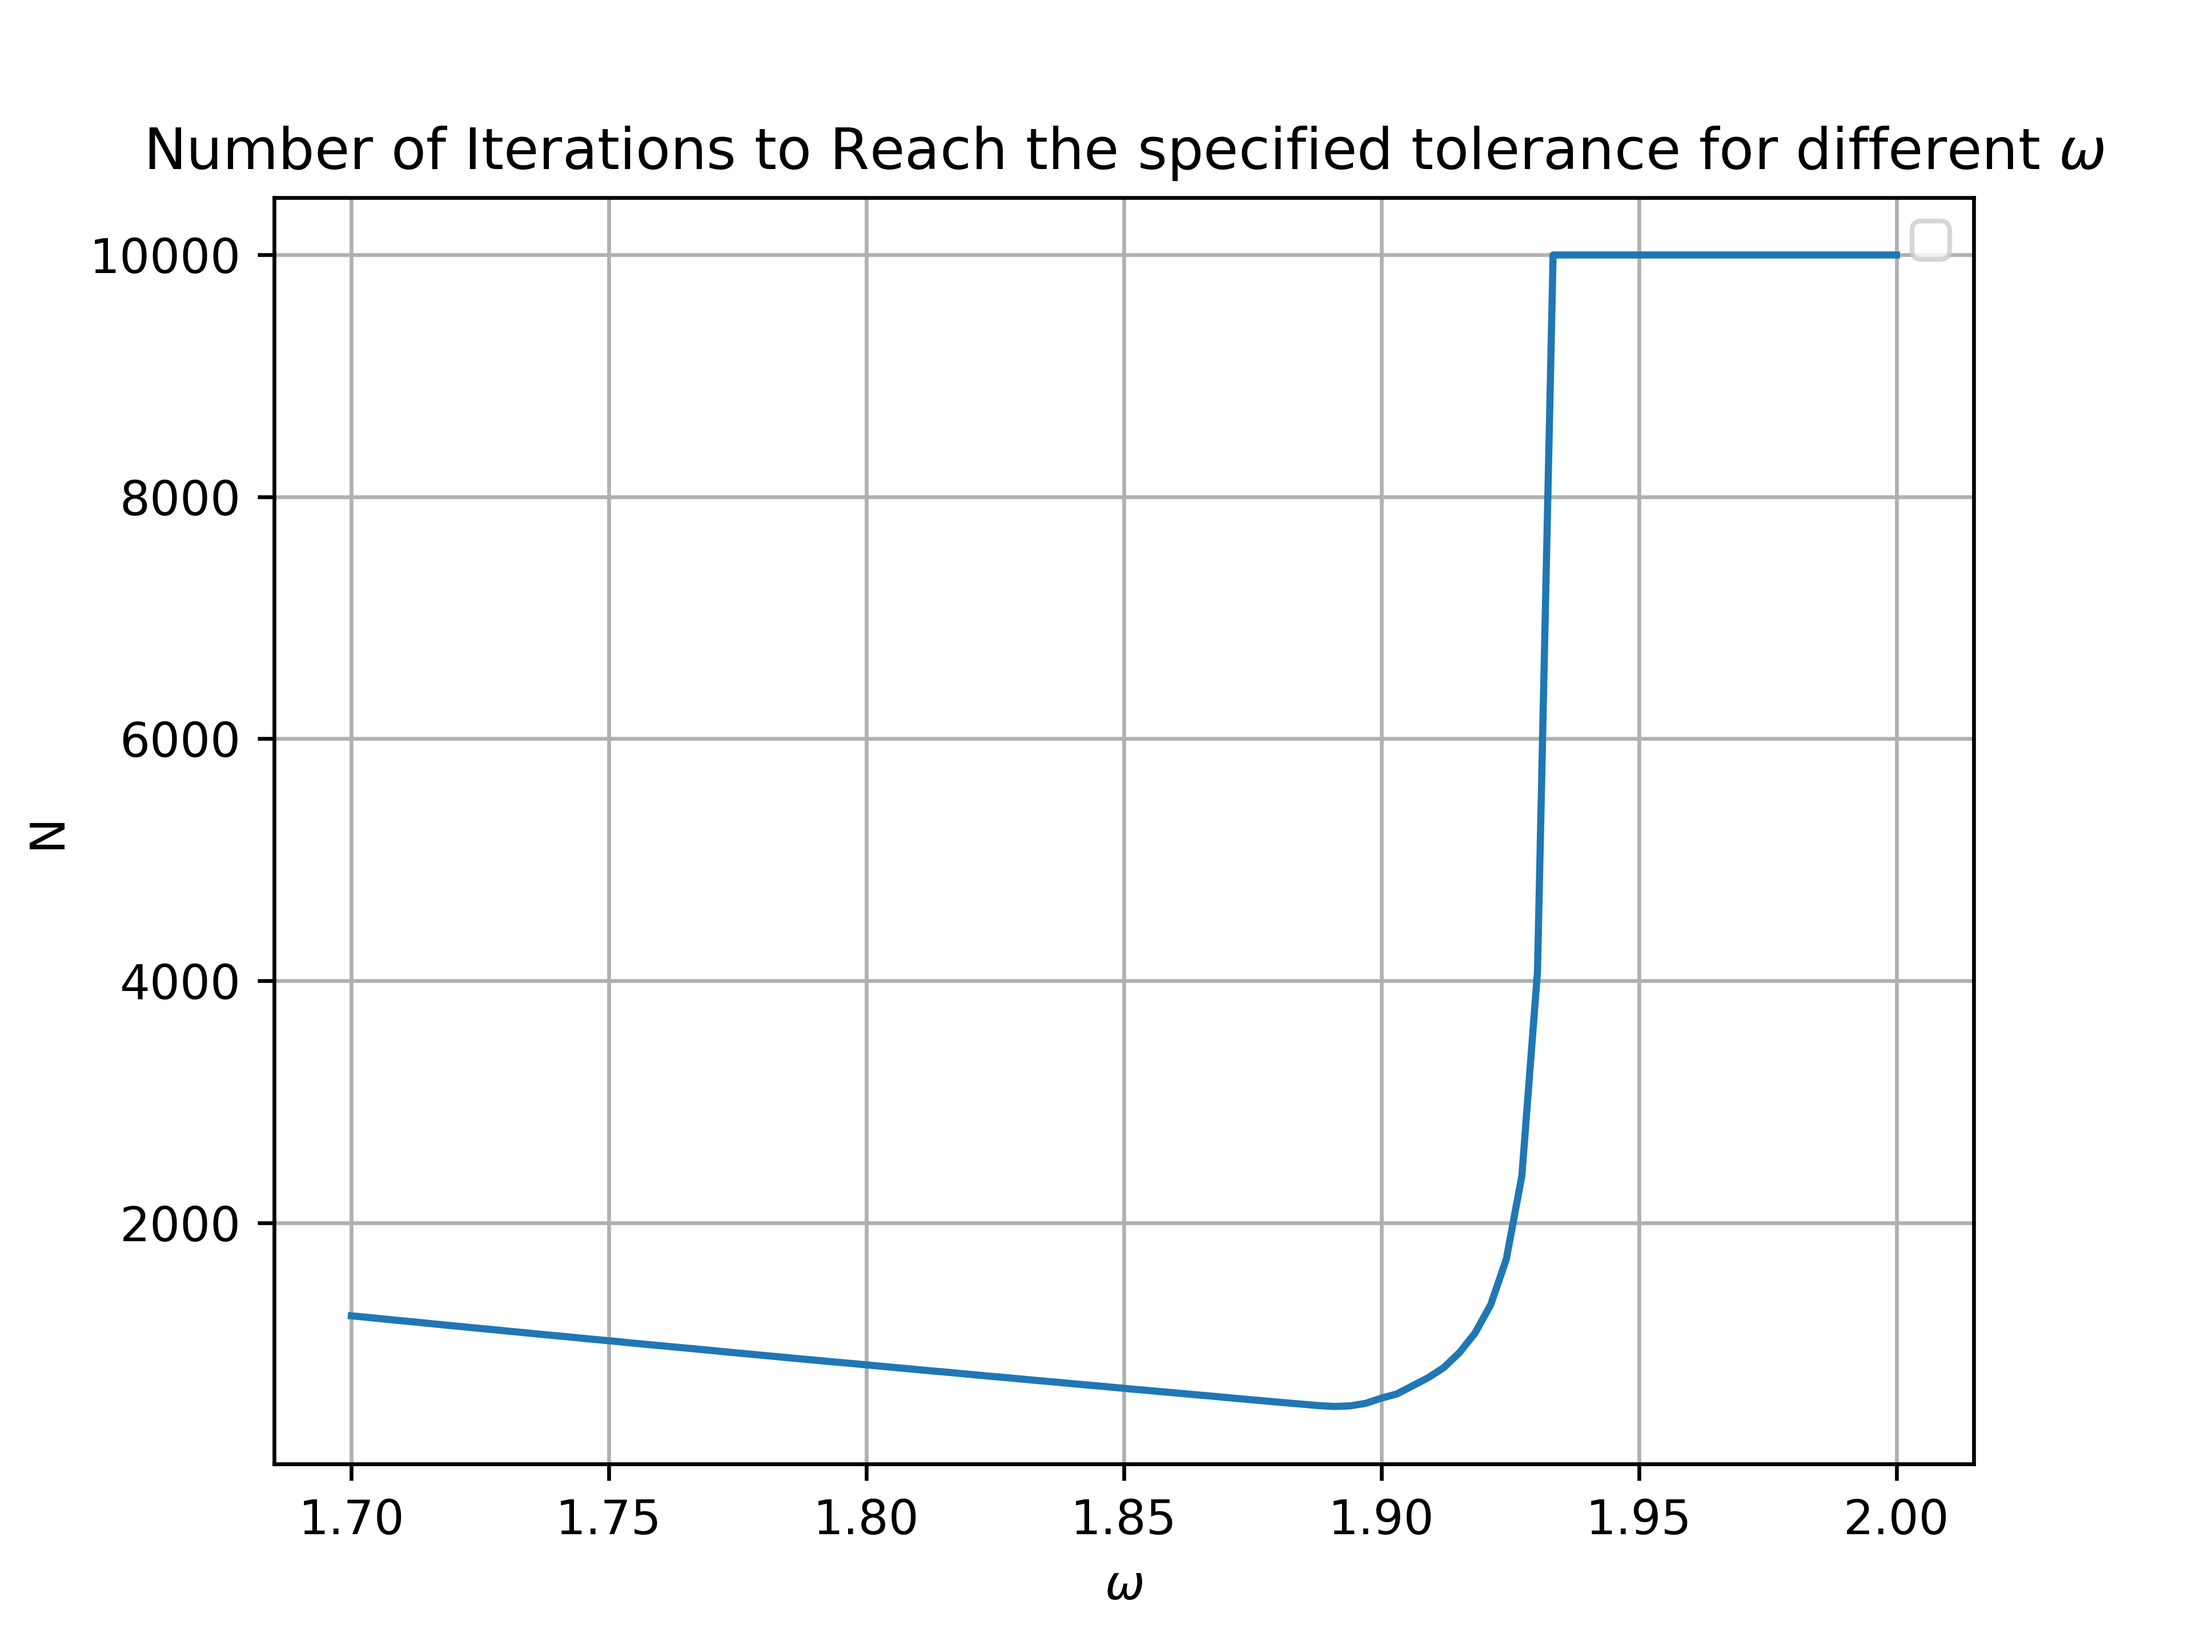
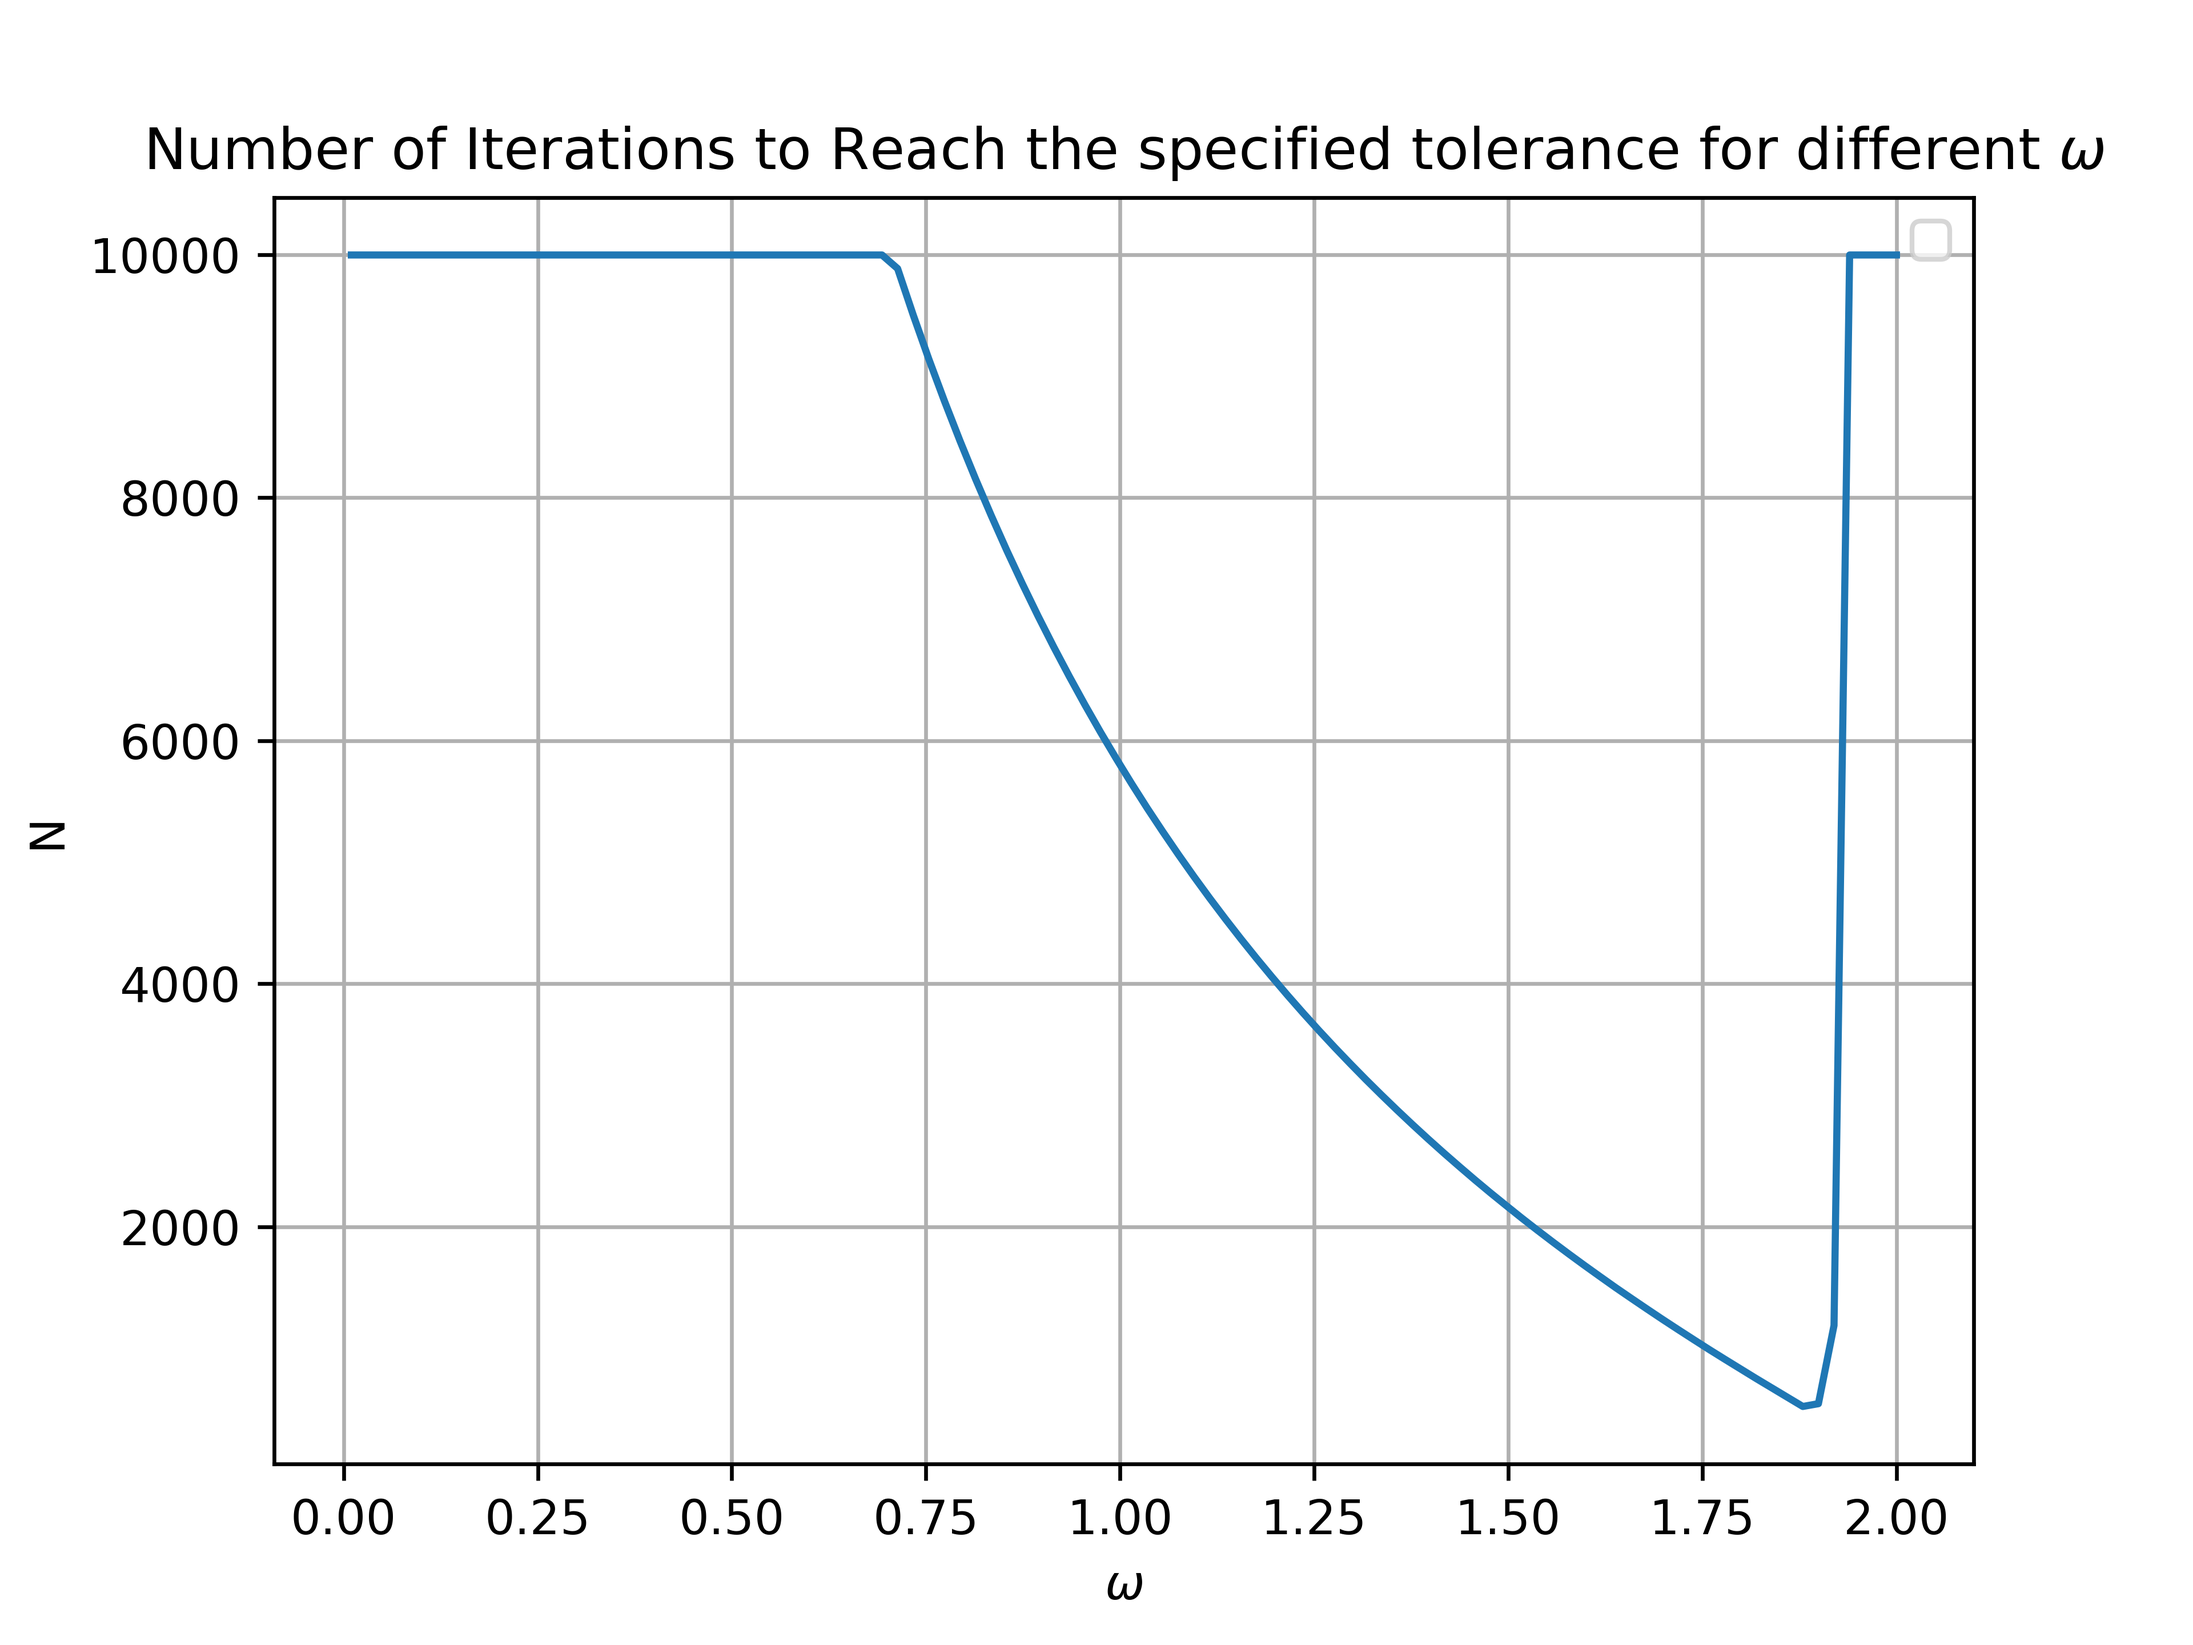
iter vs tol done?

diff --git a/src/main_SOR.py b/src/main_SOR.py
@@ -24,7 +24,7 @@ def main():
     # sor_diffusion.plot_y_slice(0)
     
     
-def iter_to_convergence_SOR(tolerances, omega, max_steps=100000):
+def iter_to_convergence_SOR(tolerances, omega, max_steps=100000, mask=None):
     Ns = np.zeros_like(tolerances)
     for i, tolerance in enumerate(tolerances):
         
@@ -40,7 +40,8 @@ def iter_to_convergence_SOR(tolerances, omega, max_steps=100000):
                                                 n_steps, 
                                                 time_step_num, 
                                                 omega, 
-                                                lambda x, y: 1)
+                                                lambda x, y: 1,
+                                                mask)
         
         solution, t = sor_diffusion.solve(tolerance=tolerance)
         # sor_diffusion.plot_animation()    
@@ -100,15 +101,19 @@ def min_val_approximation(x, y, dx = 1):
     return x_min, y_min
     
     
-def optimal_omega_plot():
-    omegas = np.linspace(1.7, 2, 100)
+def optimal_omega_plot(mask = None, title='No Obstructions'):
+    omegas = np.linspace(0.01, 2, 500)
     Ns = np.zeros_like(omegas)
     tolerance = [1e-8]
     
     for i, omega in enumerate(omegas):
-        N = iter_to_convergence_SOR(tolerance, omega, max_steps=10000)
+        N = iter_to_convergence_SOR(tolerance, omega, max_steps=100000, mask = mask)
         Ns[i] = N
         
+    plt.figure(figsize=[10,3])
+    plt.tight_layout()
+    
+    plt.subplots_adjust(bottom=0.15)
     plt.plot(omegas, Ns)
     w_min, N_min = min_val_approximation(omegas, Ns)
     # print(p, N_min)
@@ -116,11 +121,12 @@ def optimal_omega_plot():
     plt.grid()
     plt.legend()
     # plt.xscale('log')
-    # plt.yscale('log')
+    plt.yscale('log')
     plt.xlabel(r'$\omega$')
     plt.ylabel('N')
-    plt.title(r'Number of Iterations to Reach the specified tolerance for different $\omega$')
-    plt.savefig('plots/opt_omega.png', dpi=600)
+    plt.title(title + r',  $\omega_{min} = ${.2f}'.format(w_min))
+    plt.ylim([2e2,9e4])
+    plt.savefig('plots/opt_omega_full.png', dpi=600)
         
 
 if __name__ == '__main__':

diff --git a/src/SOR_diff.py b/src/SOR_diff.py
@@ -16,13 +16,15 @@ class SORDiffusion:
                  n_steps : int,
                  time_step_num : float,
                  omega : float,
-                 initial_condition_func : callable):
+                 initial_condition_func : callable,
+                 mask = None):
         self.x_length = x_length
         self.y_length = y_length
         self.n_steps = n_steps
         self.time_step_num = time_step_num
         self.omega = omega
         self.initial_condition_func = initial_condition_func
+        self.mask = mask
 
         self.x_points = np.linspace(0, self.x_length, self.n_steps)
         self.y_points = np.linspace(0, self.y_length, self.n_steps)
@@ -40,7 +42,7 @@ class SORDiffusion:
 
     def solve(self, tolerance = None):
         
-        _, t = SOR(self.c, self.omega, tolerance=tolerance)
+        _, t = SOR(self.c, self.omega, mask=self.mask, tolerance=tolerance)
         if tolerance is not None:
             print('finished after ', t, ' iterations')
         return self.c, t
